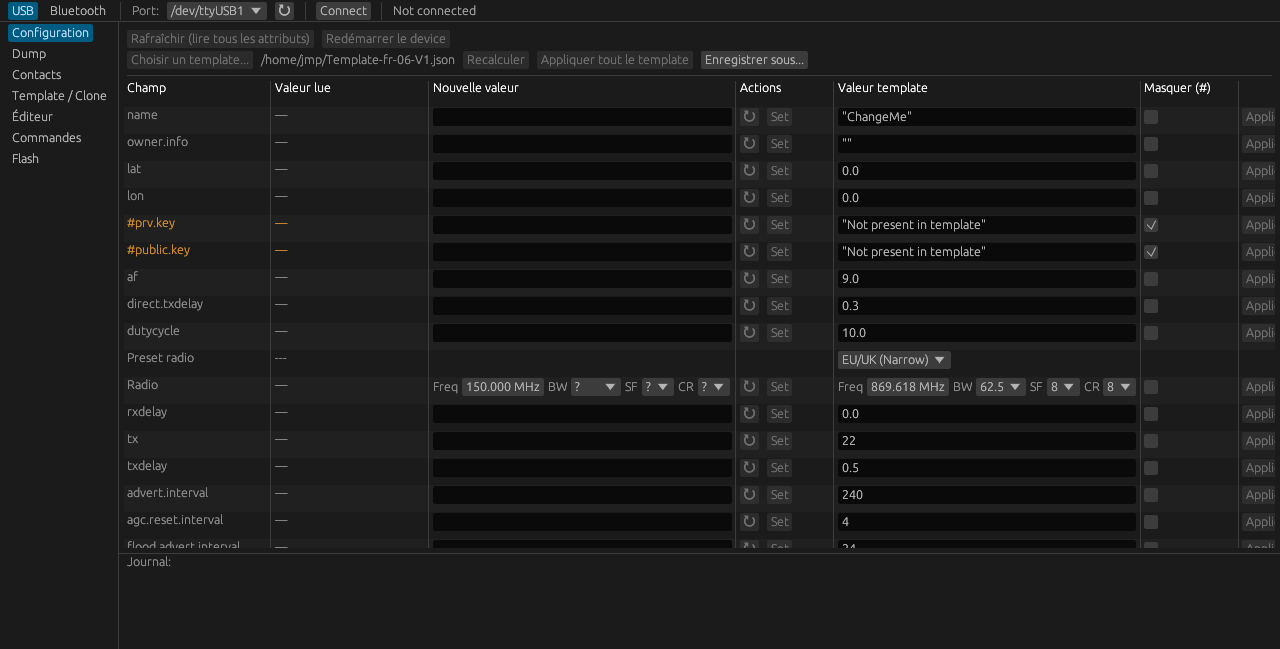
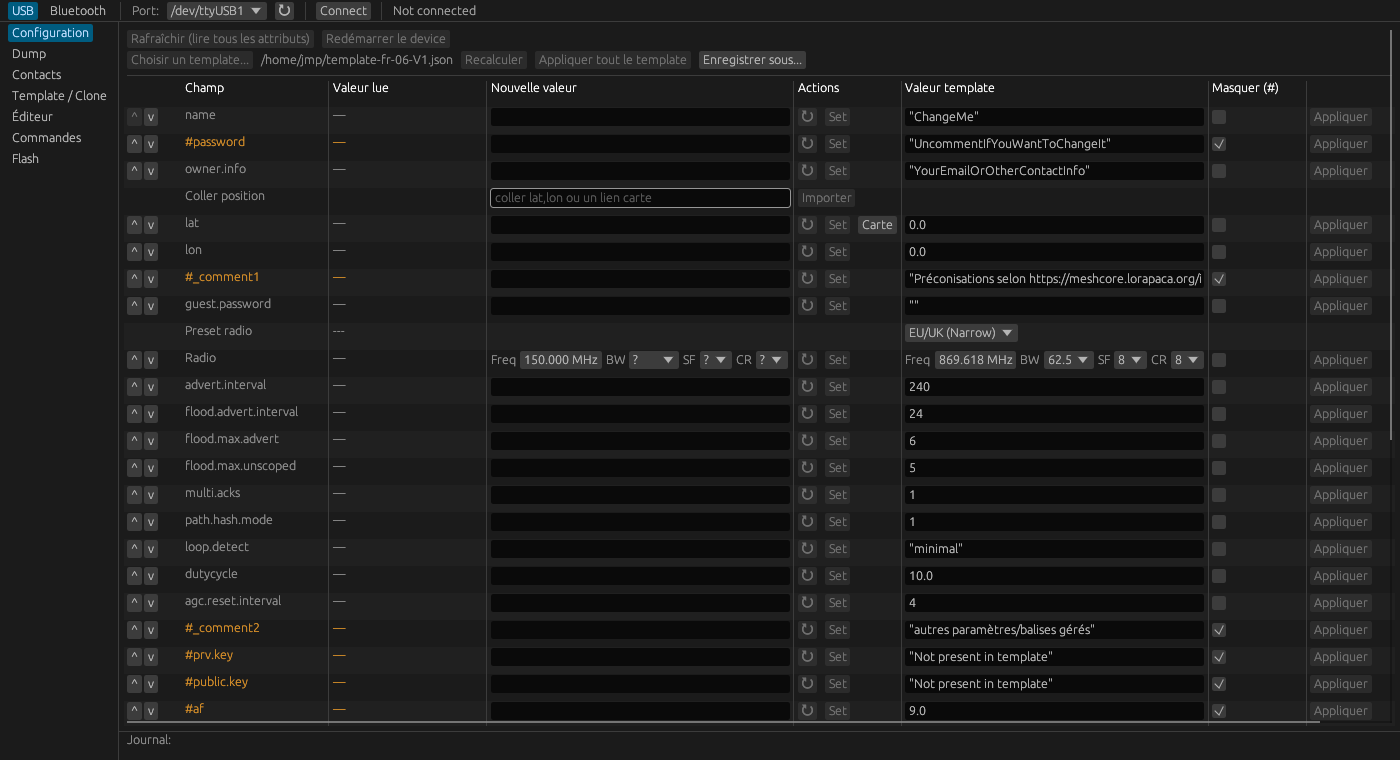
v3.7.0 docs: French region assistant, two-tree region comparison
Also catches up 01-lancement.png, which had been missed in the
v3.6.0 screenshot sync.

diff --git a/README.md b/README.md
@@ -97,7 +97,11 @@ automatiquement (pas besoin de cliquer sur « Rafraîchir » en premier) —
 chaque ligne du tableau apparaît au fur et à mesure de sa lecture,
 plutôt que d'attendre la fin de la lecture complète.
 
-![Onglet Configuration, device connecté](docs/screenshots/02-connecte-companion.png)
+![Onglet Configuration, avec template chargé](docs/screenshots/02-connecte-companion.png)
+
+*(Capturée sans connexion active — le tableau/ACL/Régions s'affichent
+identiquement une fois connecté, avec en plus la colonne « Valeur lue »
+remplie.)*
 
 Chaque champ a sa propre ligne : la valeur actuellement lue sur le
 device, un champ pour taper une nouvelle valeur, et un bouton **Set**
@@ -129,8 +133,7 @@ lancement du programme.
 
 - **Configuration** — décrit ci-dessus : tous les attributs, comparaison
   à un template, et (si le device en a) les sections **ACL** et
-  **Régions** en dessous du tableau principal, sur le même principe
-  (valeur lue vs. valeur template, coloration identique). La colonne
+  **Régions** en dessous du tableau principal. La colonne
   **Valeur template** est directement éditable (modification live, y
   compris pour ajouter un champ absent du template) ; chaque champ a
   aussi sa case **Masquer (#)** pour désactiver/réactiver son
@@ -140,24 +143,62 @@ lancement du programme.
   bordure (largeur mémorisée d'un lancement à l'autre, comme dans
   l'Éditeur), et un bouton **Redémarrer le device** est disponible en
   haut — utile après un changement de paramètres radio, qui ne sont
-  pris en compte qu'au redémarrage. La section Régions a sa propre case
-  **RAZ régions avant update**, pour supprimer sur le device les
-  régions absentes du template plutôt que se contenter d'ajouter/
-  modifier. Le champ radio est présenté sur deux lignes liées :
-  **Preset radio** (nom d'un préréglage régional officiel — Brazil,
-  EU/UK (Narrow), USA/Canada..., 23 au total) juste au-dessus de
-  **Radio** (le détail technique fréquence/bande passante/SF/CR).
-  Choisir un preset remplit la ligne Radio ; modifier un paramètre radio
-  à la main met à jour le preset affiché (nom correspondant, ou « --- »
-  si la combinaison ne correspond plus à aucun préréglage connu). La
-  ligne **Radio** elle-même n'accepte plus une valeur libre : bande
-  passante, facteur d'étalement (SF) et taux de codage (CR) se
-  choisissent dans une liste ne proposant que les valeurs réellement
-  supportées par la puce radio, et la fréquence reste un champ numérique
-  borné à la plage acceptée par le firmware — impossible d'entrer une
-  combinaison incohérente. Le tableau se déplace aussi horizontalement
-  (pas seulement verticalement) si la fenêtre est trop étroite pour
-  afficher toutes les colonnes.
+  pris en compte qu'au redémarrage.
+
+  **Ordre des lignes** : un template chargé s'affiche exactement dans
+  l'ordre où ses champs sont écrits dans le fichier JSON — commentaires
+  (`#_comment...`) compris, à leur vraie place. Deux boutons **^ / v**
+  sur chaque ligne permettent de réordonner directement depuis l'IHM ;
+  l'ordre choisi est celui utilisé par **Enregistrer sous...**. Sans
+  template chargé, l'ordre par défaut reste : identité (nom, coordonnées,
+  mots de passe) puis réglages radio/réseau puis le reste.
+
+  **ACL** : même principe que le tableau des champs — rôle lu, rôle
+  souhaité (menu déroulant guest/read-only/read-write/admin), case
+  **Masquer (#)**, bouton **Appliquer** par ligne, plus une ligne
+  **Nouvelle entrée ACL** pour ajouter une clé publique pas encore
+  connue. Une entrée ACL non désactivée est aussi appliquée par
+  **Appliquer tout le template**, comme n'importe quel autre champ.
+
+  **Régions** : deux arbres indentés côte à côte, **Device (lu)** et
+  **Template (souhaité)** — même présentation qu'un `region list` en
+  CLI, avec home/default marqués (`^home`/`•default`) et une couleur par
+  région (vert = déjà identique, rouge = diffère, orange = désactivée
+  dans le template). Un "Supprimer" sur chaque région du template la
+  retire **avec tous ses enfants**, et **Vider le template** repart de
+  zéro d'un coup — rien de tout ça n'écrit sur le device, c'est
+  **Appliquer tout le template** qui le fait, en une fois pour tout
+  (régions absentes du template toujours supprimées du device, pour que
+  celui-ci corresponde exactement au fichier). Un **assistant région
+  française** repliable propose de chercher un département (nom ou
+  numéro) et d'insérer d'un clic toute la hiérarchie
+  `eu`/`fr`/région/département correspondante — pratique pour ne jamais
+  fauter un code de région à la main.
+
+  Le champ radio est présenté sur deux lignes liées : **Preset radio**
+  (nom d'un préréglage régional officiel — Brazil, EU/UK (Narrow),
+  USA/Canada..., 23 au total) juste au-dessus de **Radio** (le détail
+  technique fréquence/bande passante/SF/CR). Choisir un preset remplit
+  la ligne Radio ; modifier un paramètre radio à la main met à jour le
+  preset affiché (nom correspondant, ou « --- » si la combinaison ne
+  correspond plus à aucun préréglage connu). La ligne **Radio**
+  elle-même n'accepte plus une valeur libre : bande passante, facteur
+  d'étalement (SF) et taux de codage (CR) se choisissent dans une liste
+  ne proposant que les valeurs réellement supportées par la puce radio,
+  et la fréquence reste un champ numérique borné à la plage acceptée par
+  le firmware — impossible d'entrer une combinaison incohérente.
+
+  De la même façon, une ligne **Coller position** juste au-dessus de
+  `lat` accepte de coller un couple `latitude, longitude` ou un lien
+  OpenStreetMap/Google Maps copié depuis un navigateur — l'outil en
+  extrait les deux coordonnées sans ambiguïté sur laquelle est laquelle ;
+  un bouton **Carte** sur la ligne `lat` ouvre aussi OpenStreetMap dans
+  le navigateur par défaut, centré sur les coordonnées actuelles, pour
+  repérer visuellement un point avant de copier son lien.
+
+  Le tableau se déplace aussi horizontalement (pas seulement
+  verticalement) si la fenêtre est trop étroite pour afficher toutes les
+  colonnes.
 - **Dump** — capture complète de l'état du device en JSON, à sauvegarder
   dans un fichier.
 - **Contacts** — l'annuaire du companion connecté (adverts/DMs qu'il a
@@ -183,18 +224,28 @@ lancement du programme.
   deux lignes liées, **Preset radio** (23 préréglages régionaux
   officiels) et **Radio** (détail technique), synchronisées dans les
   deux sens.
-  Une section **Régions** en dessous permet de créer/modifier la
-  hiérarchie (parent, flood autorisé, home/default) sur le même principe
-  — « Nouveau » y propose d'emblée un exemple EU → Europe → FR,
-  désactivé. Limité aux `vars` + régions + type de device pour l'instant
-  (pas encore l'ACL).
+  Une section **ACL** permet d'ajouter/modifier/désactiver des entrées
+  (clé publique + rôle) de la même façon, avec sa propre ligne
+  **Nouvelle entrée ACL**. Une section **Régions** en dessous permet de
+  créer/modifier la hiérarchie (parent, flood autorisé, home/default) sur
+  le même principe, avec **Supprimer** par ligne et **Vider les
+  régions** pour repartir de zéro — « Nouveau » y propose d'emblée un
+  exemple EU → Europe → FR, désactivé. Le même **assistant région
+  française** que dans Configuration (chercher un département, insérer
+  la hiérarchie `eu`/`fr`/région/département en un clic) y est aussi
+  disponible. Même ordre de lignes que l'onglet Configuration (celui du
+  fichier chargé, réordonnable avec **^ / v**), et même ligne **Coller
+  position** au-dessus de `lat`.
 - **Commandes** — colle un bloc de commandes CLI brutes (une par ligne,
   ex. une recette de configuration meshcore.fr) et les exécute d'un
   coup, dans l'ordre. Les lignes vides et celles commençant par `#` sont
   ignorées. Une ligne qui échoue (ex. `reboot`/`clock sync`, qui échouent
   normalement en connexion directe) n'interrompt pas les suivantes — le
   résultat de chaque ligne et le résumé final s'affichent dans le
-  Journal.
+  Journal. Le même **assistant région française** que Configuration/
+  Éditeur y est disponible : chercher un département insère directement
+  la séquence `region put`/`allowf`/`save` correspondante dans le bloc de
+  commandes, à relire avant d'exécuter.
 - **Flash** — écrit un firmware `.bin` déjà mergé (ESP32/ESP32-S3
   uniquement pour l'instant — Heltec V2/V3/V4 et similaires).
 

diff --git a/README-en.md b/README-en.md
@@ -99,7 +99,10 @@ is read automatically (no need to click "Refresh" first) — each row of
 the table appears as it's read, rather than waiting for the whole
 read to finish.
 
-![Configuration tab, device connected](docs/screenshots/02-connecte-companion.png)
+![Configuration tab, with a template loaded](docs/screenshots/02-connecte-companion.png)
+
+*(Captured without an active connection — the table/ACL/Regions look the
+same once connected, with the "Valeur lue" column filled in too.)*
 
 Each field gets its own row: the value currently read from the device,
 a box to type a new value, and a **Set** button to write it. Fields
@@ -129,8 +132,7 @@ the program starts.
 
 - **Configuration** — described above: every attribute, comparison
   against a template, and (if the device has them) **ACL** and
-  **Regions** sections below the main table, on the same principle
-  (value read vs. template value, same coloring). The **Valeur
+  **Regions** sections below the main table. The **Valeur
   template** (template value) column is directly editable — live, and
   it can add a field that isn't in the template yet. Each field also
   has its own **Mask (#)** checkbox to enable/disable it without hand-
@@ -138,21 +140,56 @@ the program starts.
   to a new file. Table columns can be resized by dragging their border
   (width remembered across launches, same as the Editor), and a
   **Restart device** button sits at the top — useful after changing
-  radio parameters, which only take effect after a restart. The
-  Regions section has its own **Reset regions before update** checkbox,
-  to remove regions absent from the template on the device rather than
-  just adding/updating. The radio field is shown as two linked rows:
-  **Preset radio** (an official regional preset name — Brazil, EU/UK
-  (Narrow), USA/Canada..., 23 in total) directly above **Radio** (the
-  technical detail: frequency/bandwidth/SF/CR). Picking a preset fills
-  in the Radio row; hand-editing a radio parameter updates the preset
-  shown (the matching name, or "---" if the combination no longer
-  matches any known preset). The **Radio** row itself no longer takes
-  free-text input: bandwidth, spreading factor (SF), and coding rate
-  (CR) are picked from a list of only the values the radio chip actually
-  supports, and frequency stays a numeric field clamped to the range the
-  firmware accepts — an inconsistent combination can no longer be typed
-  in. The table also scrolls horizontally, not just vertically, if the
+  radio parameters, which only take effect after a restart.
+
+  **Row order**: a loaded template displays in exactly the order its
+  fields are written in the JSON file — comments (`#_comment...`)
+  included, in their real position. Two **^ / v** buttons on each row
+  let you reorder directly from the GUI; that order is what **Save
+  as...** writes back out. With no template loaded, the default order
+  is: identity (name, coordinates, passwords), then radio/network
+  settings, then everything else.
+
+  **ACL**: same shape as the fields table — role read, desired role (a
+  guest/read-only/read-write/admin dropdown), a **Mask (#)** checkbox, a
+  per-row **Apply** button, plus a **New ACL entry** row to add a public
+  key that isn't there yet. An enabled ACL entry is also applied by
+  **Apply whole template**, just like any other field.
+
+  **Regions**: two indented trees side by side, **Device (read)** and
+  **Template (desired)** — same layout as a CLI `region list`, with
+  home/default marked (`^home`/`•default`) and one color per region
+  (green = already matches, red = differs, orange = disabled in the
+  template). A **Delete** button on any template region removes it
+  **and all its children**, and **Clear the template** starts it over
+  from scratch — none of this writes to the device, that's still
+  **Apply whole template**'s job, all at once (regions absent from the
+  template are always removed from the device so it ends up an exact
+  mirror of the file). A collapsible **French region assistant** lets
+  you search a French department (name or number) and insert the whole
+  `eu`/`fr`/region/department chain in one click — handy for never
+  mistyping a region code by hand.
+
+  The radio field is shown as two linked rows: **Preset radio** (an
+  official regional preset name — Brazil, EU/UK (Narrow), USA/Canada...,
+  23 in total) directly above **Radio** (the technical detail:
+  frequency/bandwidth/SF/CR). Picking a preset fills in the Radio row;
+  hand-editing a radio parameter updates the preset shown (the matching
+  name, or "---" if the combination no longer matches any known preset).
+  The **Radio** row itself no longer takes free-text input: bandwidth,
+  spreading factor (SF), and coding rate (CR) are picked from a list of
+  only the values the radio chip actually supports, and frequency stays
+  a numeric field clamped to the range the firmware accepts — an
+  inconsistent combination can no longer be typed in.
+
+  The same way, a **Paste position** row directly above `lat` accepts a
+  pasted `latitude, longitude` pair or an OpenStreetMap/Google Maps link
+  copied from a browser — the tool extracts both coordinates with no
+  ambiguity over which is which; a **Map** button on the `lat` row also
+  opens OpenStreetMap in the default browser, centered on the current
+  coordinates, to visually find a spot before copying its link.
+
+  The table also scrolls horizontally, not just vertically, if the
   window is too narrow to show every column.
 - **Dump** — a complete snapshot of the device's state as JSON, to save
   to a file.
@@ -177,16 +214,25 @@ the program starts.
   the Configuration tab, the radio field is shown as two linked rows,
   **Preset radio** (23 official regional presets) and **Radio**
   (technical detail), synced both ways.
-  A **Regions** section below lets you build the hierarchy the same way
-  (parent, flood allowed, home/default) — "New" starts it off with a
-  disabled EU → Europe → FR example. Limited to `vars` + regions +
-  device type for now (no ACL editing yet).
+  An **ACL** section lets you add/edit/disable entries (public key +
+  role) the same way, with its own **New ACL entry** row. A **Regions**
+  section below lets you build the hierarchy the same way (parent, flood
+  allowed, home/default), with a per-row **Delete** and a **Clear
+  regions** button to start over — "New" starts it off with a disabled
+  EU → Europe → FR example. The same **French region assistant** as
+  Configuration (search a department, insert the `eu`/`fr`/region/
+  department chain in one click) is available here too. Same row order
+  as the Configuration tab (the loaded file's own, reorderable with
+  **^ / v**), and the same **Paste position** row above `lat`.
 - **Commands** — paste a block of raw CLI commands (one per line, e.g. a
   meshcore.fr-style setup recipe) and run them all at once, in order.
   Blank lines and lines starting with `#` are skipped. A failing line
   (e.g. `reboot`/`clock sync`, which normally fail over a direct
   connection) doesn't stop the rest — each line's result and the final
-  tally show up in the Journal.
+  tally show up in the Journal. The same **French region assistant** as
+  Configuration/Editor is available here too: searching a department
+  inserts the matching `region put`/`allowf`/`save` sequence straight
+  into the command block, to review before running it.
 - **Flash** — writes an already-merged `.bin` firmware (ESP32/ESP32-S3
   only for now — Heltec V2/V3/V4 and similar).
 
